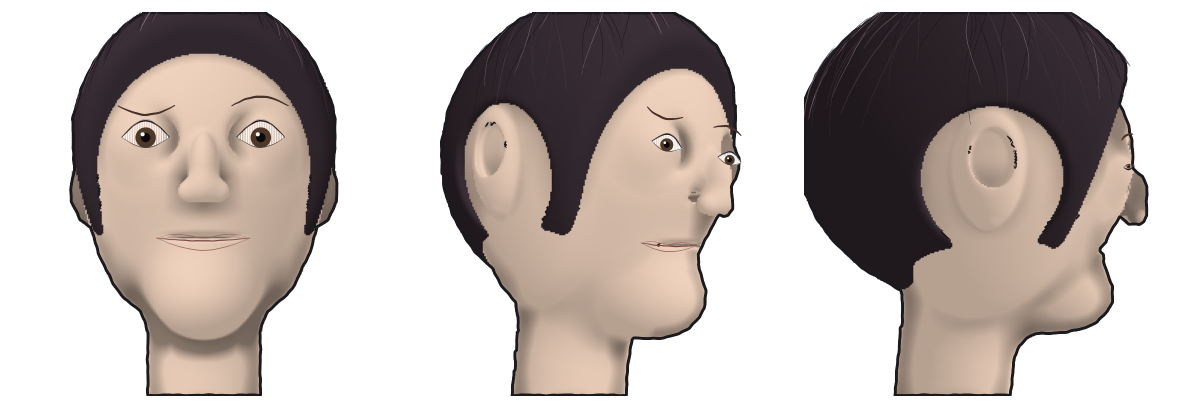
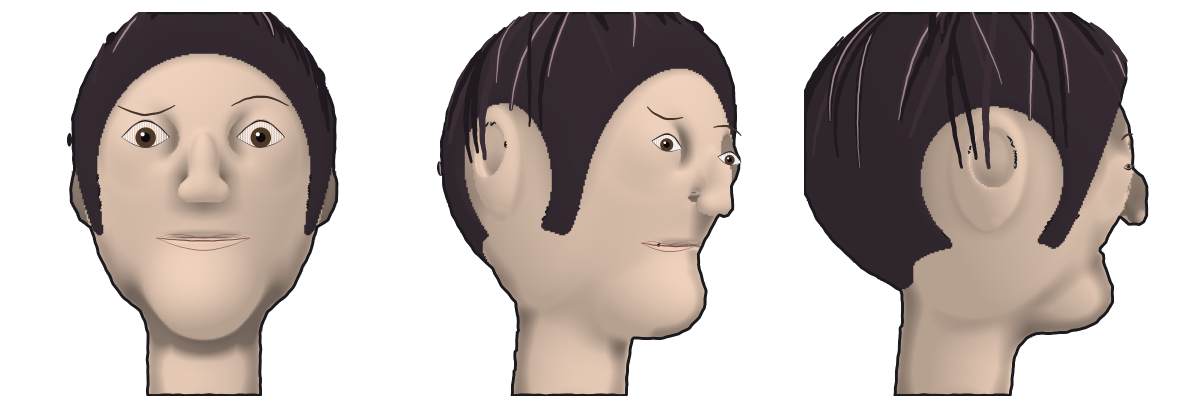
hair: rebuild as locks (strokes build the mass, not a shaded dome)
Stop rendering hair like skin (smooth lambert fill + a few lines). The hair is
now constructed from LOCKS: tapered ribbons (thick root -> point tip) that flow
from a crown part, with varied width/tone and a highlight crest, layered as a
few dominant lead locks + clumped filler. The dark fill is now a flat undercoat;
the locks carry the form, edges and tips. Reads as flowing locks in 3/4 and
profile. Rough: front still flat-ish; stray lock tips near the ear.

diff --git a/face-lib/spike/ink-head.ts b/face-lib/spike/ink-head.ts
@@ -433,43 +433,52 @@ const drawHairStrokes = (cv: any, cam: Camera, ss: number) => {
   };
   const rnd = (s: number) => { const x = Math.sin(s * 127.1) * 43758.5; return x - Math.floor(x); };
 
-  // one strand: theta th0->th1 at longitude ph0, with drift + gentle wave
-  const strand = (ph0: number, th0: number, th1: number, drift: number, waveA: number, waveF: number, width: number, col: number[], seed: number) => {
-    const N = 22;
+  // one LOCK: a tapered ribbon (thick at the root, point at the tip) following
+  // the scalp flow, clipped to visible hair. The lock IS the hair — the mass is
+  // built by overlapping these, not by a shaded fill. Optional bright highlight
+  // down the spine (the lit crest of the lock).
+  const lock = (ph0: number, th0: number, th1: number, drift: number, waveA: number, width: number, col: number[], seed: number, hi: boolean) => {
+    const N = 18;
     let seg: P2[] = [];
-    const flush = () => { if (seg.length > 1) cv.stroke(seg, { width, color: col, wobble: 0.5, seed, taper: true }); seg = []; };
+    const flush = () => {
+      if (seg.length > 1) {
+        cv.stroke(seg, { width, color: col, wobble: 0.9, seed, taper: true });
+        if (hi) cv.stroke(seg, { width: width * 0.26, color: [158, 134, 140], wobble: 0.5, seed: seed + 9, taper: true });
+      }
+      seg = [];
+    };
     for (let i = 0; i <= N; i++) {
       const t = i / N;
       const th = th0 + (th1 - th0) * t;
-      const ph = ph0 + drift * t + waveA * Math.sin(waveF * Math.PI * t + seed);
+      const ph = ph0 + drift * t + waveA * Math.sin(1.4 * Math.PI * t + seed);
       const P = surf(th, ph);
       const toCam = normalize(sub(cam.origin, P));
-      const vis = onHairSide(P) && dot(nrmOf(th, ph), toCam) > 0.12;
-      if (vis) { const q = projectPoint(cam, P); seg.push({ x: q.px * ss, y: q.py * ss }); }
+      if (onHairSide(P) && dot(nrmOf(th, ph), toCam) > 0.1) { const q = projectPoint(cam, P); seg.push({ x: q.px * ss, y: q.py * ss }); }
       else flush();
     }
     flush();
   };
 
-  const dark = [30, 24, 30], mid = [64, 50, 58], light = [120, 98, 106];
-  // LEADS — a sweep of longitudinal flow lines all around the crown
-  const LEADS = 16;
-  for (let i = 0; i < LEADS; i++) {
-    const ph = (i / LEADS) * Math.PI * 2;
-    const drift = (rnd(i + 1) - 0.5) * 0.5;
-    strand(ph, 0.16, 1.45, drift, 0.05, 1.5, 2.4, i % 5 === 0 ? light : mid, 100 + i);
+  const dark = [32, 25, 31], mid = [58, 45, 53];
+  // crown PART — locks fan away from a part meridian toward the front-top
+  const phPart = Math.PI * 0.5;
+  // dominant LEAD locks: a few wide ones that set the main flow and shape
+  for (let i = 0; i < 7; i++) {
+    lock(phPart + (i - 3) * 0.52, 0.15, 1.5, (i - 3) * 0.12, 0.05, 16, mid, 100 + i, true);
   }
-  // FILLER — clumps of short strands jittered around each lead longitude
-  const CLUMPS = 18;
+  // CLUMPS — tight fans of locks that build the mass; varied width/tone/length
+  const CLUMPS = 13;
   for (let c = 0; c < CLUMPS; c++) {
     const phC = (c / CLUMPS) * Math.PI * 2 + (rnd(c + 9) - 0.5) * 0.2;
-    const m = 5 + Math.floor(rnd(c + 3) * 4);
+    const m = 4 + Math.floor(rnd(c + 3) * 4);
     for (let k = 0; k < m; k++) {
-      const ph = phC + (rnd(c * 13 + k) - 0.5) * 0.28;
-      const th0 = 0.2 + rnd(c * 7 + k) * 0.25;
-      const th1 = th0 + 0.7 + rnd(c * 5 + k) * 0.5;
-      const col = rnd(c * 3 + k) > 0.8 ? light : (rnd(c * 17 + k) > 0.5 ? mid : dark);
-      strand(ph, th0, th1, (rnd(c + k) - 0.5) * 0.3, 0.04, 1.8, 1.3, col, 500 + c * 20 + k);
+      const ph = phC + (rnd(c * 13 + k) - 0.5) * 0.42;
+      const th0 = 0.14 + rnd(c * 7 + k) * 0.22;
+      const th1 = th0 + 0.85 + rnd(c * 5 + k) * 0.7;
+      const width = 7 + rnd(c * 11 + k) * 9;
+      const drift = (rnd(c + k) - 0.5) * 0.45;
+      const tone = rnd(c * 3 + k) > 0.55 ? mid : dark;
+      lock(ph, th0, th1, drift, 0.05, width, tone, 500 + c * 20 + k, rnd(c * 17 + k) > 0.72);
     }
   }
 };
@@ -551,8 +560,8 @@ const renderView = (sdf: SDF, yaw: number, pitch: number) => {
       cam.right[2] * u * cam.tanHalf + cam.up[2] * vv * cam.tanHalf + cam.forward[2],
     ]);
     const wp: Vec3 = [cam.origin[0] + rd[0] * g.depth[i], cam.origin[1] + rd[1] * g.depth[i], cam.origin[2] + rd[2] * g.depth[i]];
-    if (hairShellSDF(wp) < styledHead(wp)) {      // HAIR (the hit surface is the hair shell)
-      const sh = 0.55 + 0.5 * lam;
+    if (hairShellSDF(wp) < styledHead(wp)) {      // HAIR — flat dark UNDERCOAT only
+      const sh = 0.82 + 0.12 * lam;               // nearly flat; locks carry the form
       cv.stamp((x + 0.5) * SS, (y + 0.5) * SS, SS * 0.72, [hairCol[0] * sh, hairCol[1] * sh, hairCol[2] * sh], 1);
     } else {                                      // SKIN
       let sh = 0.76 + 0.24 * lam;
